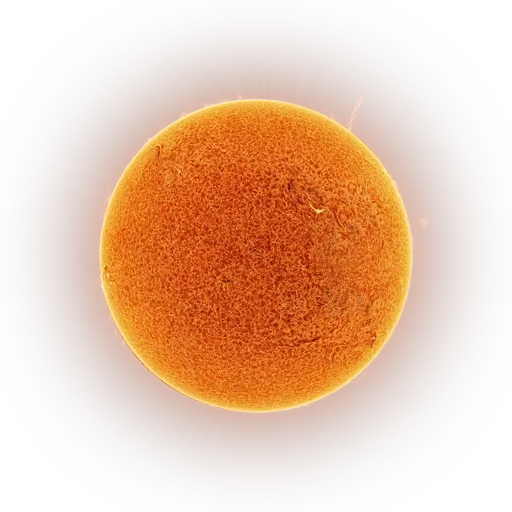
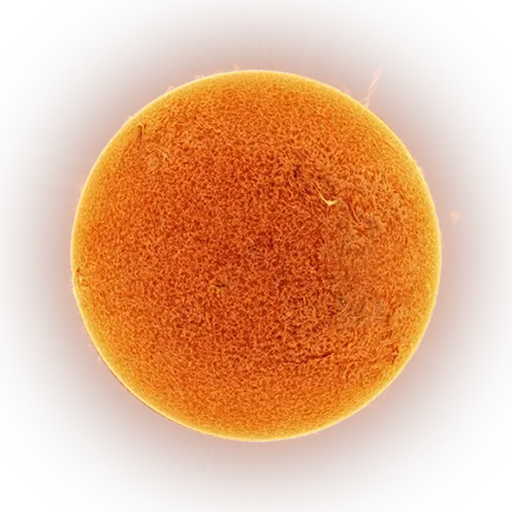
Added needle image feature: image is clipped to the shape of the needle.

diff --git a/src/custom-compass-card.js b/src/custom-compass-card.js
@@ -1,7 +1,7 @@
 import { LitElement, html, svg, css } from 'https://unpkg.com/lit@2.0.0/index.js?module';
 
 // ─── Card Version ─────────────────────────────────────────────────────────────
-const CARD_VERSION = '3.5.121';
+const CARD_VERSION = '3.6.126';
 
 // ─── Default Configuration ────────────────────────────────────────────────────
 const DEFAULT_CONFIG = {
@@ -13,7 +13,7 @@ const DEFAULT_CONFIG = {
   bezel_width:              16,
   bezel_size:               0,
   background_image_show:    false,
-  background_image_url:     '/local/community/custom-compass-card/earth.jpg',
+  background_image_url:     '/local/community/custom-compass-card/earth.png',
   background_image_scale:   180,
   background_image_x:       -16,
   background_image_y:       32,
@@ -31,6 +31,12 @@ const DEFAULT_CONFIG = {
   needle_position:          -10,
   needle_morph:             50,
   needle_curve:             0,
+  needle_image_show:        false,
+  needle_image_url:         '/local/community/custom-compass-card/moon.png',
+  needle_image_scale:       100,
+  needle_image_x:           0,
+  needle_image_y:           0,
+  needle_image_rotate:      0,
   marker_1_show:            false,
   marker_1_degrees:         '45',
   marker_1_length:          5,
@@ -265,7 +271,7 @@ class CustomCompassCardEditor extends LitElement {
         <div class="text-field">
           <label>X pos (%)</label>
           <ha-textfield
-            type="number" step="1"
+            type="number" step="0.5"
             .value=${String(c.background_image_x)}
             @input=${e => this._valueChanged('background_image_x', e)}
           ></ha-textfield>
@@ -273,7 +279,7 @@ class CustomCompassCardEditor extends LitElement {
         <div class="text-field">
           <label>Y pos (%)</label>
           <ha-textfield
-            type="number" step="1"
+            type="number" step="0.5"
             .value=${String(c.background_image_y)}
             @input=${e => this._valueChanged('background_image_y', e)}
           ></ha-textfield>
@@ -379,6 +385,60 @@ class CustomCompassCardEditor extends LitElement {
             type="number" step="1"
             .value=${String(c.needle_curve)}
             @input=${e => this._valueChanged('needle_curve', e)}
+          ></ha-textfield>
+        </div>
+      </div>
+
+      <!-- Needle image -->
+      <div class="needle-image-toggles-grid">
+        <div class="toggle-field">
+          <label>Needle image</label>
+          <ha-switch
+            .checked=${c.needle_image_show}
+            @change=${e => this._valueChanged('needle_image_show', e)}
+          ></ha-switch>
+        </div>
+      </div>
+      <div class="needle-image-template-grid">
+        <div class="text-field">
+          <label>URL (jinja template allowed)</label>
+          <ha-textfield
+            .value=${String(c.needle_image_url)}
+            @input=${e => this._valueChanged('needle_image_url', e)}
+          ></ha-textfield>
+        </div>
+      </div>
+      <div class="needle-image-styling-grid">
+        <div class="text-field">
+          <label>Scale (%)</label>
+          <ha-textfield
+            type="number" step="1" min="1"
+            .value=${String(c.needle_image_scale)}
+            @input=${e => this._valueChanged('needle_image_scale', e)}
+          ></ha-textfield>
+        </div>
+        <div class="text-field">
+          <label>X pos</label>
+          <ha-textfield
+            type="number" step="0.5"
+            .value=${String(c.needle_image_x)}
+            @input=${e => this._valueChanged('needle_image_x', e)}
+          ></ha-textfield>
+        </div>
+        <div class="text-field">
+          <label>Y pos</label>
+          <ha-textfield
+            type="number" step="0.5"
+            .value=${String(c.needle_image_y)}
+            @input=${e => this._valueChanged('needle_image_y', e)}
+          ></ha-textfield>
+        </div>
+        <div class="text-field">
+          <label>Rotate</label>
+          <ha-textfield
+            type="number" step="1"
+            .value=${String(c.needle_image_rotate)}
+            @input=${e => this._valueChanged('needle_image_rotate', e)}
           ></ha-textfield>
         </div>
       </div>
@@ -1102,6 +1162,30 @@ class CustomCompassCardEditor extends LitElement {
       margin-bottom: 16px;
     }
 
+    .needle-image-toggles-grid {
+      display: grid;
+      grid-template-columns: 1fr;
+      gap: 8px;
+      margin-top: 28px;
+      margin-bottom: 16px;
+    }
+
+    .needle-image-template-grid {
+      display: grid;
+      grid-template-columns: 1fr;
+      gap: 8px;
+      margin-top: 8px;
+    }
+
+    .needle-image-styling-grid {
+      display: grid;
+      grid-template-columns: 1fr 1fr 1fr 1fr;
+      gap: 8px;
+      margin-top: 8px;
+      margin-bottom: 8px;
+      align-items: end;
+    }
+
     .tick-toggles-grid {
       display: grid;
       grid-template-columns: 1fr;
@@ -1271,6 +1355,7 @@ class CustomCompassCard extends LitElement {
     _marker1Degrees:        { type: Number },
     _marker2Degrees:        { type: Number },
     _backgroundImageUrl:    { type: String },
+    _needleImageUrl:        { type: String },
     _error:                 { type: Boolean },
   };
 
@@ -1287,6 +1372,7 @@ class CustomCompassCard extends LitElement {
     this._marker1Degrees        = 0;
     this._marker2Degrees        = 0;
     this._backgroundImageUrl    = '';
+    this._needleImageUrl        = '';
     this._error                 = false;
   }
 
@@ -1383,6 +1469,12 @@ class CustomCompassCard extends LitElement {
       this._backgroundImageUrl = await this._evaluateTemplate(String(this.config.background_image_url), this._degrees);
     } else {
       this._backgroundImageUrl = '';
+    }
+    // Evaluate needle image URL template
+    if (this.config.needle_image_show) {
+      this._needleImageUrl = await this._evaluateTemplate(String(this.config.needle_image_url), this._degrees);
+    } else {
+      this._needleImageUrl = '';
     }
   }
 
@@ -1697,7 +1789,7 @@ class CustomCompassCard extends LitElement {
             ${c.background_image_show && this._backgroundImageUrl ? html`
               <img class="compass-bg-image"
                 src="${this._backgroundImageUrl}"
-                style="transform: translate(${c.background_image_x}%, ${c.background_image_y}%) rotate(${c.background_image_rotate}deg) scale(${c.background_image_scale / 100});"
+                style="transform: translate(-50%, -50%) translate(${c.background_image_x}%, ${c.background_image_y}%) rotate(${c.background_image_rotate}deg) scale(${c.background_image_scale / 100});"
               />
             ` : ''}
             ${renderField(fieldDefs[0], this._field1Value)}
@@ -1717,8 +1809,24 @@ class CustomCompassCard extends LitElement {
                     <stop offset="${g2pos}%" stop-color="${g2}" />
                     <stop offset="100%"      stop-color="${g2}" />
                   </linearGradient>
+                  ${c.needle_image_show && this._needleImageUrl ? svg`
+                    <clipPath id="needleClip">
+                      <path d="${pathData.path}" />
+                    </clipPath>
+                  ` : ''}
                 </defs>
-                <path d="${pathData.path}" fill="url(#needleGradient)" />
+                ${c.needle_image_show && this._needleImageUrl ? svg`
+                  <image
+                    href="${this._needleImageUrl}"
+                    x="${minX}" y="${minY}"
+                    width="${maxX - minX}" height="${maxY - minY}"
+                    preserveAspectRatio="xMidYMid slice"
+                    clip-path="url(#needleClip)"
+                    transform="translate(${(maxX + minX) / 2}, ${(maxY + minY) / 2}) rotate(${c.needle_image_rotate}) scale(${c.needle_image_scale / 100}) translate(${c.needle_image_x}, ${c.needle_image_y}) translate(${-(maxX + minX) / 2}, ${-(maxY + minY) / 2})"
+                  />
+                ` : svg`
+                  <path d="${pathData.path}" fill="url(#needleGradient)" />
+                `}
               </svg>
             ` : ''}
           </div>
@@ -1781,11 +1889,11 @@ class CustomCompassCard extends LitElement {
     }
     .compass-bg-image {
       position: absolute;
-      top: 0;
-      left: 0;
-      width: 100%;
+      top: 50%;
+      left: 50%;
       height: 100%;
-      object-fit: cover;
+      width: auto;
+      max-width: none;
       transform-origin: center center;
       pointer-events: none;
       z-index: 0;

diff --git a/README.md b/README.md
@@ -19,12 +19,12 @@ Custom Compass Card is very customizable. The same card, with different settings
 | Wind Speed | Compass |
 | :----: | :----: |
 | ![Wind Speed](screenshots/screenshot1.png) | ![Compass Direction](screenshots/screenshot2.png) |
-| Sun | Rotate Compass |
-| ![Sun](screenshots/screenshot3.png) | ![Rotate Compass](screenshots/screenshot6.png) |
+| Earth orbits the Sun | Rotate Compass |
+| ![Sun](screenshots/solar2.png) | ![Rotate Compass](screenshots/screenshot6.png) |
 
 | UI Editor |
 | :-------: |
-| ![Editor](screenshots/screenshot5.png) |
+| ![Editor](screenshots/editor1.png) |
 
 Everything is configurable through the built-in visual editor — no YAML required.
 
